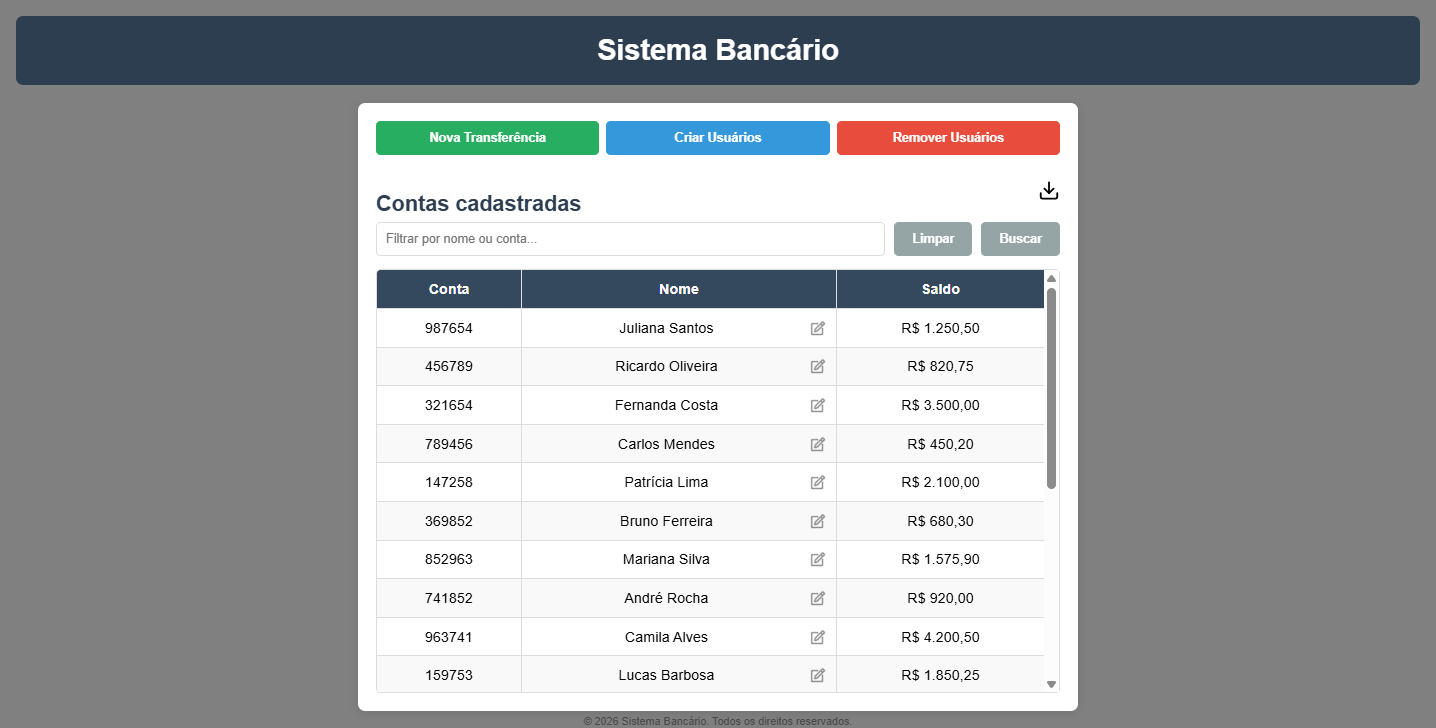
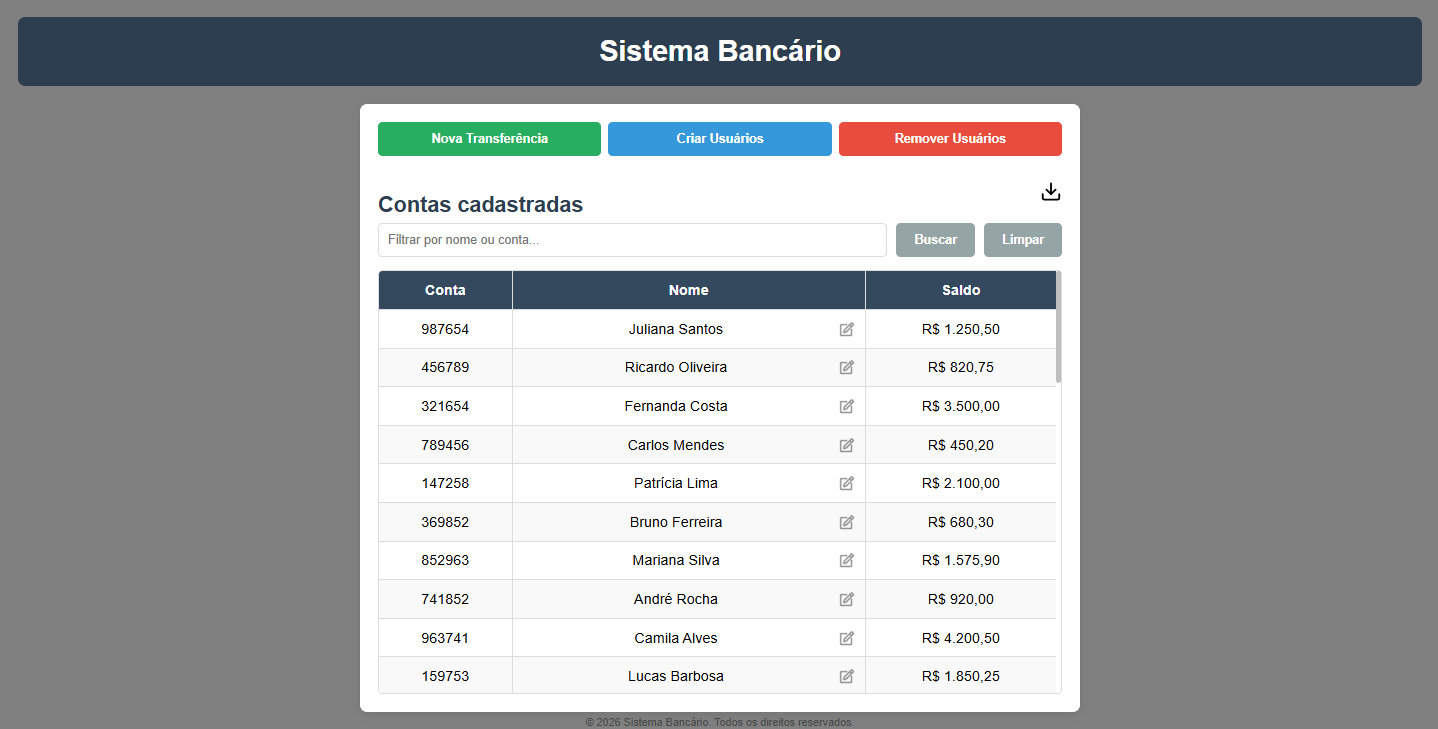
chore: fix default users reload and add custom desktop scrollbar
- Remove 'users.length === 0' condition from initialization logic

- Add custom webkit scrollbar styles for desktop

Update screenshots on README

diff --git a/style.css b/style.css
@@ -641,6 +641,38 @@
         #remove-users-table tbody tr:hover {
             background-color: #f1f1f1;
         }
+
+        /* Custom scrollbar */
+        .main-table-wrapper::-webkit-scrollbar,
+        .table-wrapper::-webkit-scrollbar,
+        .modal-content::-webkit-scrollbar {
+            width: 6px;
+        }
+
+        .main-table-wrapper::-webkit-scrollbar-track,
+        .table-wrapper::-webkit-scrollbar-track,
+        .modal-content::-webkit-scrollbar-track {
+            background: transparent;
+        }
+
+        .main-table-wrapper::-webkit-scrollbar-thumb,
+        .table-wrapper::-webkit-scrollbar-thumb,
+        .modal-content::-webkit-scrollbar-thumb {
+            background-color: rgba(0, 0, 0, 0.25);
+            border-radius: 999px;
+        }
+
+        .main-table-wrapper::-webkit-scrollbar-thumb:hover,
+        .table-wrapper::-webkit-scrollbar-thumb:hover,
+        .modal-content::-webkit-scrollbar-thumb:hover {
+            background-color: rgba(0, 0, 0, 0.4);
+        }
+
+        .main-table-wrapper::-webkit-scrollbar-button,
+        .table-wrapper::-webkit-scrollbar-button,
+        .modal-content::-webkit-scrollbar-button {
+            display: none;
+        }
     }
 
     /* Mobile portrait */

diff --git a/script.js b/script.js
@@ -12,8 +12,8 @@ let currentEditUser = null; // Stores the user being edited
 
 // -------------------- Initialization --------------------
 
-// Load 20 default users if localStorage is empty or null
-if (data === null || users.length === 0) {
+// Load 20 default users only on first access (when localStorage has never been used)
+if (data === null) {
     const defaultUsers = [
         {
             name: "Juliana Santos", account: "987654", balance: 1250.50
